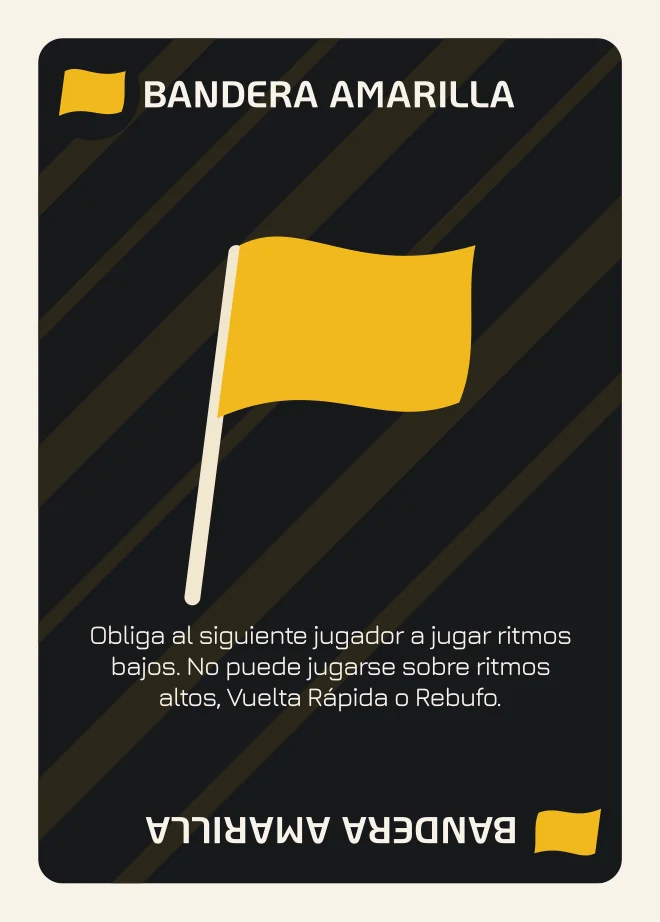
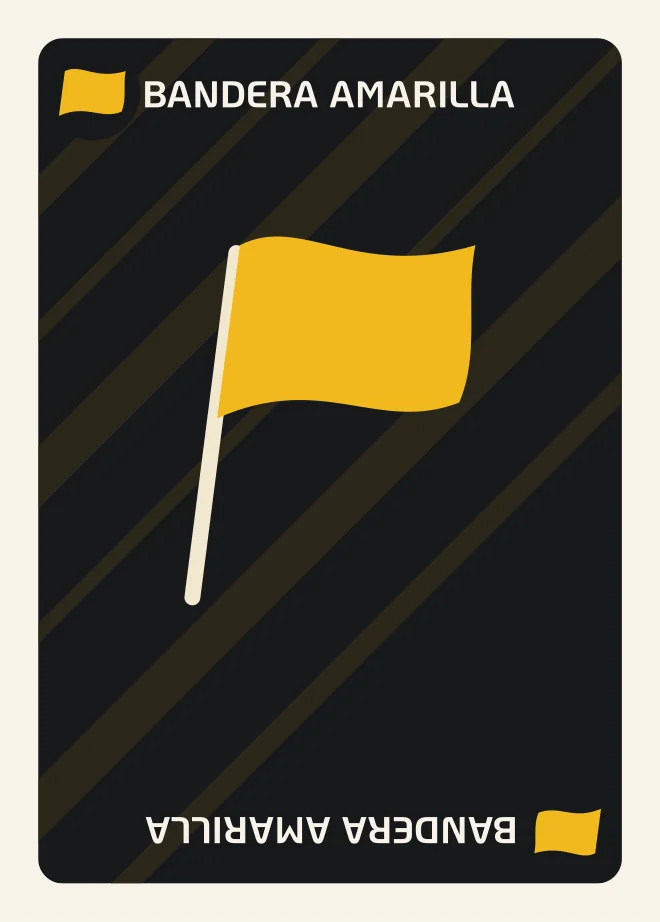
Assets: use special cards without the printed description on the web (#22)
- Re-render Rebufo, Banderas (Roja, Amarilla, Azul, a Cuadros) and Vuelta
  Rápida from the Figma SVGs with the description layer removed: it's
  unreadable on screen, and the rules live in the demo tips and on the
  instructions page
- Card images bumped to ?v=5 on every page and in demo.js / multi.js
- CLAUDE.md: rule to never use the with-description versions for digital
  card art, and how to strip the layer from new exports; README note

Claude-Session: https://claude.ai/code/session_01NnqHpLbFLA2wp9k6winjPW

Changed region(s): [[0.1212, 0.6681, 0.8788, 0.7896]]

diff --git a/juegos/pinto/index.html b/juegos/pinto/index.html
@@ -136,14 +136,14 @@
         <p class="p-eyebrow">32 cartas · del 1 al 8</p>
         <h2 class="p-h2" id="ritmo-title">Cartas de ritmo</h2>
         <ul class="p-fan" aria-label="Cartas de ritmo del 1 al 8">
-          <li><img src="img/cartas/ritmo-1.webp?v=4" width="660" height="922" alt="Carta de ritmo 1" loading="lazy"></li>
-          <li><img src="img/cartas/ritmo-2.webp?v=4" width="660" height="922" alt="Carta de ritmo 2" loading="lazy"></li>
-          <li><img src="img/cartas/ritmo-3.webp?v=4" width="660" height="922" alt="Carta de ritmo 3" loading="lazy"></li>
-          <li><img src="img/cartas/ritmo-4.webp?v=4" width="660" height="922" alt="Carta de ritmo 4" loading="lazy"></li>
-          <li><img src="img/cartas/ritmo-5.webp?v=4" width="660" height="922" alt="Carta de ritmo 5" loading="lazy"></li>
-          <li><img src="img/cartas/ritmo-6.webp?v=4" width="660" height="922" alt="Carta de ritmo 6" loading="lazy"></li>
-          <li><img src="img/cartas/ritmo-7.webp?v=4" width="660" height="922" alt="Carta de ritmo 7" loading="lazy"></li>
-          <li><img src="img/cartas/ritmo-8.webp?v=4" width="660" height="922" alt="Carta de ritmo 8" loading="lazy"></li>
+          <li><img src="img/cartas/ritmo-1.webp?v=5" width="660" height="922" alt="Carta de ritmo 1" loading="lazy"></li>
+          <li><img src="img/cartas/ritmo-2.webp?v=5" width="660" height="922" alt="Carta de ritmo 2" loading="lazy"></li>
+          <li><img src="img/cartas/ritmo-3.webp?v=5" width="660" height="922" alt="Carta de ritmo 3" loading="lazy"></li>
+          <li><img src="img/cartas/ritmo-4.webp?v=5" width="660" height="922" alt="Carta de ritmo 4" loading="lazy"></li>
+          <li><img src="img/cartas/ritmo-5.webp?v=5" width="660" height="922" alt="Carta de ritmo 5" loading="lazy"></li>
+          <li><img src="img/cartas/ritmo-6.webp?v=5" width="660" height="922" alt="Carta de ritmo 6" loading="lazy"></li>
+          <li><img src="img/cartas/ritmo-7.webp?v=5" width="660" height="922" alt="Carta de ritmo 7" loading="lazy"></li>
+          <li><img src="img/cartas/ritmo-8.webp?v=5" width="660" height="922" alt="Carta de ritmo 8" loading="lazy"></li>
         </ul>
       </section>
 
@@ -153,27 +153,27 @@
         <h2 class="p-h2" id="especiales-title">Cartas especiales</h2>
         <ul class="p-specials p-specials--compact">
           <li class="p-card" style="--c: #e5463b">
-            <img src="img/cartas/bandera-roja.webp?v=4" width="660" height="922" alt="" loading="lazy">
+            <img src="img/cartas/bandera-roja.webp?v=5" width="660" height="922" alt="" loading="lazy">
             <h3>Bandera Roja</h3>
           </li>
           <li class="p-card" style="--c: #f2bd23">
-            <img src="img/cartas/bandera-amarilla.webp?v=4" width="660" height="922" alt="" loading="lazy">
+            <img src="img/cartas/bandera-amarilla.webp?v=5" width="660" height="922" alt="" loading="lazy">
             <h3>Bandera Amarilla</h3>
           </li>
           <li class="p-card" style="--c: #22b3c4">
-            <img src="img/cartas/rebufo.webp?v=4" width="660" height="922" alt="" loading="lazy">
+            <img src="img/cartas/rebufo.webp?v=5" width="660" height="922" alt="" loading="lazy">
             <h3>Rebufo</h3>
           </li>
           <li class="p-card" style="--c: #e8e2d6">
-            <img src="img/cartas/bandera-a-cuadros.webp?v=4" width="660" height="922" alt="" loading="lazy">
+            <img src="img/cartas/bandera-a-cuadros.webp?v=5" width="660" height="922" alt="" loading="lazy">
             <h3>Bandera a Cuadros</h3>
           </li>
           <li class="p-card" style="--c: #9b4fd8">
-            <img src="img/cartas/vuelta-rapida.webp?v=4" width="660" height="922" alt="" loading="lazy">
+            <img src="img/cartas/vuelta-rapida.webp?v=5" width="660" height="922" alt="" loading="lazy">
             <h3>Vuelta Rápida</h3>
           </li>
           <li class="p-card" style="--c: #2f86de">
-            <img src="img/cartas/bandera-azul.webp?v=4" width="660" height="922" alt="" loading="lazy">
+            <img src="img/cartas/bandera-azul.webp?v=5" width="660" height="922" alt="" loading="lazy">
             <h3>Bandera Azul</h3>
           </li>
         </ul>
@@ -205,7 +205,7 @@
 
       <!-- Cierre -->
       <section class="p-cta" aria-labelledby="cta-title">
-        <img class="p-cta__card" src="img/cartas/reverso.webp?v=4" width="660" height="922" alt="" loading="lazy">
+        <img class="p-cta__card" src="img/cartas/reverso.webp?v=5" width="660" height="922" alt="" loading="lazy">
         <div class="p-cta__copy">
           <h2 class="p-h2" id="cta-title">Muy pronto en la parrilla de salida</h2>
           <p>PINTO está calentando motores. Síguenos para enterarte primero de dónde conseguirlo.</p>

diff --git a/juegos/pinto/instrucciones/index.html b/juegos/pinto/instrucciones/index.html
@@ -145,27 +145,27 @@
         <h2 class="p-h2" id="especiales-title">Cartas especiales</h2>
         <ul class="p-specials">
           <li class="p-card" style="--c: #e5463b">
-            <img src="../img/cartas/bandera-roja.webp?v=4" width="660" height="922" alt="" loading="lazy">
+            <img src="../img/cartas/bandera-roja.webp?v=5" width="660" height="922" alt="" loading="lazy">
             <div><h3>Bandera Roja</h3><p>Cierra la pista sin descartar la pila. El siguiente jugador tiene vía libre. Esta carta puede jugarse siempre.</p></div>
           </li>
           <li class="p-card" style="--c: #f2bd23">
-            <img src="../img/cartas/bandera-amarilla.webp?v=4" width="660" height="922" alt="" loading="lazy">
+            <img src="../img/cartas/bandera-amarilla.webp?v=5" width="660" height="922" alt="" loading="lazy">
             <div><h3>Bandera Amarilla</h3><p>Obliga al siguiente jugador a jugar ritmos bajos. Esta carta <strong>NO</strong> puede jugarse sobre ritmos altos, Vuelta Rápida o Rebufo.</p></div>
           </li>
           <li class="p-card" style="--c: #22b3c4">
-            <img src="../img/cartas/rebufo.webp?v=4" width="660" height="922" alt="" loading="lazy">
+            <img src="../img/cartas/rebufo.webp?v=5" width="660" height="922" alt="" loading="lazy">
             <div><h3>Rebufo</h3><p>Permite colocar hasta dos valores consecutivos de ritmos altos. Puedes jugarla sobre ritmos bajos u otro Rebufo.</p></div>
           </li>
           <li class="p-card" style="--c: #e8e2d6">
-            <img src="../img/cartas/bandera-a-cuadros.webp?v=4" width="660" height="922" alt="" loading="lazy">
+            <img src="../img/cartas/bandera-a-cuadros.webp?v=5" width="660" height="922" alt="" loading="lazy">
             <div><h3>Bandera a Cuadros</h3><p>Termina la etapa y descarta la pila. El siguiente jugador tiene vía libre. Esta carta puede jugarse siempre.</p></div>
           </li>
           <li class="p-card" style="--c: #9b4fd8">
-            <img src="../img/cartas/vuelta-rapida.webp?v=4" width="660" height="922" alt="" loading="lazy">
+            <img src="../img/cartas/vuelta-rapida.webp?v=5" width="660" height="922" alt="" loading="lazy">
             <div><h3>Vuelta Rápida</h3><p>Carta de ritmo más alto del juego. Esta carta <strong>NO</strong> puede jugarse justo después de una Bandera Amarilla.</p></div>
           </li>
           <li class="p-card" style="--c: #2f86de">
-            <img src="../img/cartas/bandera-azul.webp?v=4" width="660" height="922" alt="" loading="lazy">
+            <img src="../img/cartas/bandera-azul.webp?v=5" width="660" height="922" alt="" loading="lazy">
             <div><h3>Bandera Azul</h3><p>Salta el turno del siguiente jugador. Esta carta <strong>NO</strong> puede jugarse sobre una Bandera Amarilla, Rebufo o Vuelta Rápida.</p></div>
           </li>
         </ul>
@@ -220,7 +220,7 @@
 
       <!-- Closing -->
       <section class="p-cta" aria-labelledby="cierre-title">
-        <img class="p-cta__card" src="../img/cartas/reverso.webp?v=4" width="660" height="922" alt="" loading="lazy">
+        <img class="p-cta__card" src="../img/cartas/reverso.webp?v=5" width="660" height="922" alt="" loading="lazy">
         <div class="p-cta__copy">
           <h2 class="p-h2" id="cierre-title">¿Una jugada en duda?</h2>
           <p>El reglamento oficial tiene todos los casos especiales, las preguntas frecuentes y la puntuación completa del campeonato.</p>

diff --git a/index.html b/index.html
@@ -148,8 +148,8 @@
 
         <a class="h-game" href="juegos/pinto/" aria-labelledby="pinto-name">
           <div class="h-game__art">
-            <img class="h-game__card h-game__card--a" src="juegos/pinto/img/cartas/ritmo-8.webp?v=4" width="660" height="922" alt="" loading="lazy">
-            <img class="h-game__card h-game__card--b" src="juegos/pinto/img/cartas/bandera-a-cuadros.webp?v=4" width="660" height="922" alt="" loading="lazy">
+            <img class="h-game__card h-game__card--a" src="juegos/pinto/img/cartas/ritmo-8.webp?v=5" width="660" height="922" alt="" loading="lazy">
+            <img class="h-game__card h-game__card--b" src="juegos/pinto/img/cartas/bandera-a-cuadros.webp?v=5" width="660" height="922" alt="" loading="lazy">
             <img class="h-game__box" src="assets/pinto-caja.webp?v=2" width="560" height="798" alt="Caja del juego PINTO" loading="lazy">
           </div>
           <div class="h-game__copy">
@@ -227,7 +227,7 @@
             <h2 class="h-h2" id="join-title">Entérate <span class="accent">primero.</span></h2>
             <p class="h-join__lead">Suscríbete y recibe novedades, adelantos y contenido exclusivo de Kori Labs directo en tu correo.</p>
             <div class="h-join__gift">
-              <img src="juegos/pinto/img/cartas/reverso.webp?v=4" width="660" height="922" alt="" loading="lazy">
+              <img src="juegos/pinto/img/cartas/reverso.webp?v=5" width="660" height="922" alt="" loading="lazy">
               <p><strong>De regalo:</strong> una plantilla exclusiva para jugar PINTO en modo Temporada, lista para imprimir cuando PINTO llegue a tu mesa.</p>
             </div>
           </div>

diff --git a/juegos/pinto/demo/demo.js b/juegos/pinto/demo/demo.js
@@ -12,7 +12,7 @@
   if (!E || !board) return;
 
   var BASE = board.getAttribute('data-cards') || '../img/cartas/';
-  var VER = '?v=4';
+  var VER = '?v=5'; // card images version (keep in sync with the HTML pages)
   var BOT_DELAY = 2600;      // each bot "thinks" this long, so new players can follow
   var AFTER_CHAIN = 700;     // first bot after your 5 s window (you already waited)
   var CHAIN_MS = 5000;       // time you have to add another card of the same value

diff --git a/juegos/pinto/demo/multijugador/index.html b/juegos/pinto/demo/multijugador/index.html
@@ -29,7 +29,7 @@
   <link rel="stylesheet" href="../../../../css/pinto-demo.css?v=17">
   <script src="../pinto-engine.js?v=10" defer></script>
   <script src="https://cdn.jsdelivr.net/npm/peerjs@1.5.4/dist/peerjs.min.js" defer></script>
-  <script src="multi.js?v=2" defer></script>
+  <script src="multi.js?v=3" defer></script>
 </head>
 <body class="pinto pinto-demo">
 

diff --git a/juegos/pinto/demo/index.html b/juegos/pinto/demo/index.html
@@ -28,7 +28,7 @@
   <link rel="stylesheet" href="../../../css/pinto.css?v=12">
   <link rel="stylesheet" href="../../../css/pinto-demo.css?v=17">
   <script src="pinto-engine.js?v=10" defer></script>
-  <script src="demo.js?v=15" defer></script>
+  <script src="demo.js?v=16" defer></script>
 </head>
 <body class="pinto pinto-demo">
 

diff --git a/juegos/pinto/demo/multijugador/multi.js b/juegos/pinto/demo/multijugador/multi.js
@@ -12,7 +12,7 @@
   if (!E || !root || !board) return;
 
   var BASE = board.getAttribute('data-cards') || '../../img/cartas/';
-  var VER = '?v=4';
+  var VER = '?v=5'; // card images version (keep in sync with the HTML pages)
   var CHAIN_MS = 5000;
   var FLY_MS = 750;
   var DOUBLE_TAP_MS = 380;

diff --git a/CLAUDE.md b/CLAUDE.md
@@ -80,7 +80,7 @@ comments just to translate them — only translate what you are already touching
 │       │                    multi.js: PeerJS rooms (4-char code, ?sala=CODE link); the room creator's browser runs
 │       │                    the engine and sends each player only their view. ?transporte=local = multi-tab test mode
 │       └── img/             caja-*.webp (6 box faces), cartas/*.webp (card art, 660×922, cream border baked in,
-│                            rendered from the Figma SVG export; special cards include their description),
+│                            rendered from the Figma SVG export; special cards WITHOUT their description — see rules),
 │                            logo-pinto.webp, og-pinto.jpg (share preview)
 ├── pinto/reglas/index.html  Meta-refresh → /juegos/pinto/instrucciones/ (short alias; keep working)
 ├── privacidad/index.html    Privacy policy (only email is collected, via Sender; contact info@korilabscr.com)
@@ -147,7 +147,7 @@ the size/page count shown next to the download button.
 - **Cache busting:** CSS/JS/image links carry `?v=N`. When you change a file, bump its `N` **in every
   page that links it** (e.g. `home.css` is linked from `index.html` *and* `privacidad/index.html`).
   Current: `styles.css?v=2`, `home.css?v=9` (index and privacidad),
-  `pinto.css?v=12`, card images `?v=4`, `pinto-demo.css?v=17`, `pinto-engine.js?v=10`, `demo.js?v=15`, `multi.js?v=2`, `legal.css?v=1`, `box3d.js?v=2`, `favicon.svg?v=2`, box faces `?v=3`.
+  `pinto.css?v=12`, card images `?v=5` (also `VER` in `demo.js` and `multi.js`), `pinto-demo.css?v=17`, `pinto-engine.js?v=10`, `demo.js?v=16`, `multi.js?v=3`, `legal.css?v=1`, `box3d.js?v=2`, `favicon.svg?v=2`, box faces `?v=3`.
 - **Relative paths everywhere** (`../../css/…`). Pages live in folders as `index.html` so URLs are clean
   (`/juegos/pinto/`). New pages: create `folder/index.html`, copy the head/header/footer of a sibling page.
 - **Sender (newsletter):** universal script in the `<head>` of `index.html`; form is
@@ -163,6 +163,12 @@ the size/page count shown next to the download button.
   external links with `target="_blank" rel="noopener noreferrer"` plus a visually-hidden "(se abre en una
   pestaña nueva)".
 - **Assets:** prefer `.webp` for images; keep files small (no build step will optimize them).
+- **Digital card art never shows the special-card description.** The printed special cards (Rebufo, Banderas,
+  Vuelta Rápida) carry a description paragraph that is unreadable on screen, so every card image used on the
+  site and in the demos must be the version **without** it. The rules text lives elsewhere: the special-card
+  tips in the demos (`INFO` in `demo.js` / `multi.js`) and `juegos/pinto/instrucciones/`. When new card art
+  arrives from Figma, remove the description layer (in the SVG export it's the large text shape in the band
+  y≈708–800 of the 744×1039 card) before converting to WebP, and check the result visually.
 - No dependencies to install. Don't add a framework, bundler or package.json without being asked.
   Only exception (approved by the owner): `demo/multijugador/` loads PeerJS 1.5.4 from jsDelivr for online rooms.
 

diff --git a/README.md b/README.md
@@ -39,7 +39,7 @@ assets/pinto-caja.webp     Caja de PINTO para la tarjeta de la portada
   a `juegos/pinto/`. Cuando haya más juegos, cambia `juegos/index.html` por un listado.
 - **Caja 3D:** son seis imágenes (`img/caja-*.webp`) montadas con CSS 3D. Si cambia el diseño de la caja,
   reemplaza esas imágenes manteniendo las proporciones (ancho 758 · alto 1057 · fondo 244).
-- **Cartas:** `img/cartas/*.webp`, exportadas de Figma (SVG convertido a WebP de 660 × 922). Al cambiarlas, sube su `?v=N` en todas las páginas que las usan.
+- **Cartas:** `img/cartas/*.webp`, exportadas de Figma (SVG convertido a WebP de 660 × 922). Al cambiarlas, sube su `?v=N` en todas las páginas que las usan. Las cartas especiales se usan **sin** el párrafo de descripción (en pantalla no se lee; la explicación está en los avisos del demo y en la página de instrucciones).
 - **Caché:** los enlaces a CSS y JS llevan `?v=N`. Al cambiar esos archivos, sube el número para que los
   navegadores descarguen la versión nueva en vez de usar la guardada.
 
